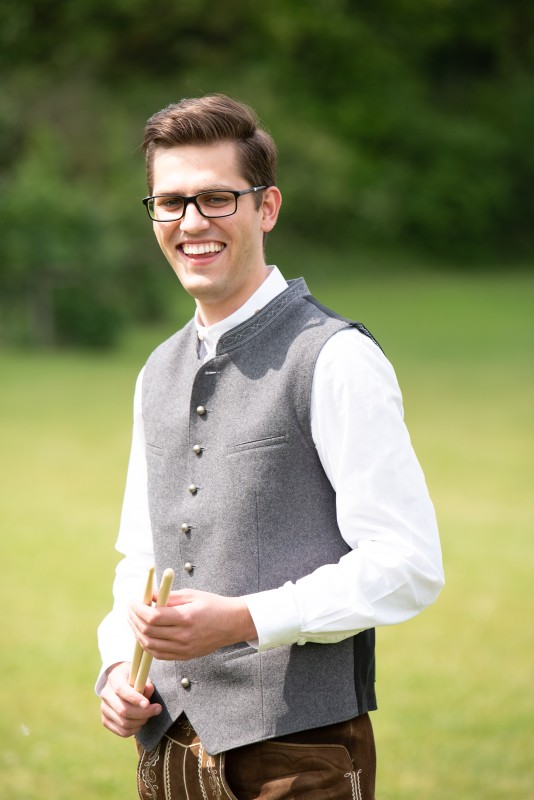
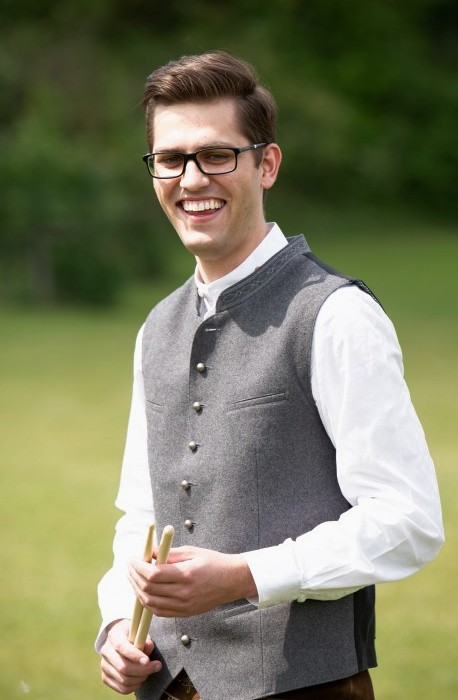
Fixed Galleriebilder Größen, etwas mehr Text, Himmel Bild eingefügt

diff --git a/about/index.md b/about/index.md
@@ -5,10 +5,11 @@ tags: [about, Jekyll, theme, moon]
 date: 2016-03-21
 comments: false
 ---
-    
-Wir sind eine kleine aber feine Gruppe von Musikern, die sich sowohl der bayerisch-bömischen Blasmusik aber auch modernerer Literatur verschrieben haben. Wir haben uns 2011 zusammengefunden und seitdem sind wir vor allem im Freisinger Umland und im Großraum München unterwegs.
+![](/assets/HimmelWeb.JPG)
+Wir sind eine kleine aber feine Gruppe von Musikern, die sich sowohl der bayerisch-bömischen Blasmusik aber auch modernerer Literatur verschrieben haben. Wir haben uns 2011 zusammengefunden und seitdem sind wir vor allem im Freisinger Umland und im Großraum München unterwegs. Dabei spielen wir Dorffeste, Vereinsjubiläen, Geburtstage, Hochzeitsempfänge und alles weitere wo gute Musik gefragt ist.
 
 ## Unsere Musiker
+Wir sind sechs Musiker, angefangen von zwei Trompeten über Waldhorn, Tenorhorn, Tuba bis hin zum Schlagzeug decken wir dabei jedoch das gesammte Spektrum ab.   
 {% include image-gallery.html folder="/assets/img/Musiker" %}
 
 
